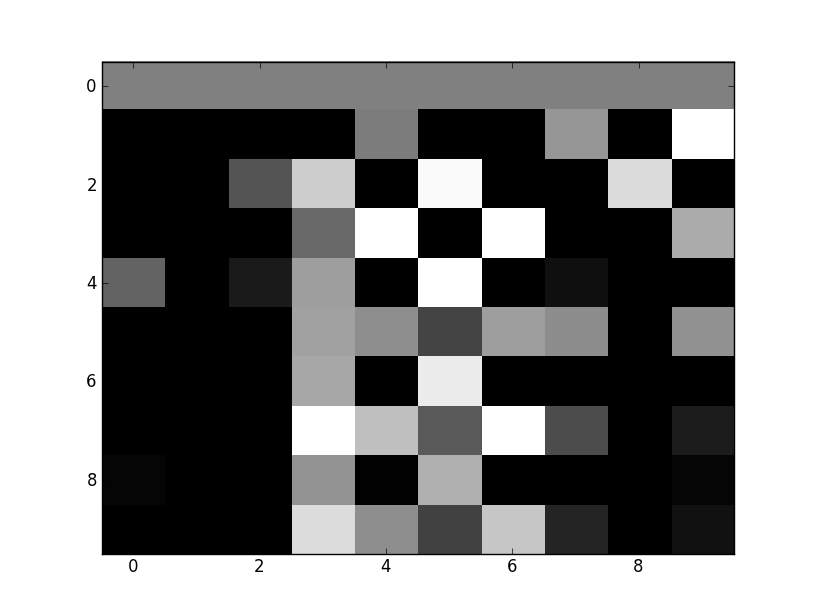
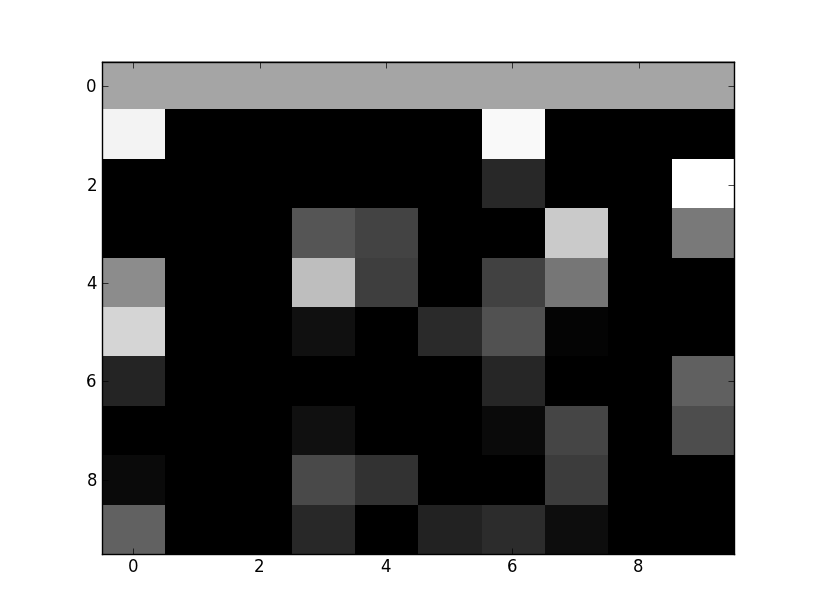
Commiting everything
I've lost track of what's changed...it works and I'm so far happy

diff --git a/Assignment_3/ANNWithSHC.py b/Assignment_3/ANNWithSHC.py
@@ -4,43 +4,13 @@ import matplotlib.pyplot as plt
 import random
 from copy import deepcopy
 
-
+################# ASSIGNMENT 3 #########################
 def MatrixCreate(Rows,Columns):
     #Inputs: int,int
     #Output: Array of zeroes
     
     matrix_list = numpy.zeros(shape=(Rows,Columns))
     return matrix_list
-
-def MatrixRandomize(Array_Name):
-    #Input: Array
-    #Output: New Array
-    random.seed()
-    array_rows = len(Array_Name)
-    #len() gives the number of rows
-    array_columns = (size(Array_Name))/array_rows
-    #element_size determines the number of columns in each row
-    for row in range(array_rows):
-        #looping through Rows
-        for column in range(array_columns):
-            #looping through each column(element) in the row
-            Array_Name[row,column] = random.random()
-    return Array_Name
-
-def Fitness(Array_Name):
-    #Input: Array
-    #Output: N-by-1 Dimensional Array
-    array_row = len(Array_Name)
-    #len() gives the number of rows
-    array_column = (size(Array_Name))/array_row
-    #element_size determines the number of columns in each row
-    vector_means = MatrixCreate(array_row,1)
-    #vector_means will hold the means of each row
-    for row in range(array_row):
-        current_sum = sum(Array_Name[row,:])
-        vector_mean = current_sum/array_column
-        vector_means[row,0] = vector_mean            
-    return vector_means
 
 def MatrixPerturb(Array_Name,Probability):
     #Input: Array, Float
@@ -58,233 +28,14 @@ def MatrixPerturb(Array_Name,Probability):
     for row in range(array_rows):
         for column in range(array_columns):
             if(xx<Probability):
-                prob_vector[row,column] = random.random()
+                prob_vector[row,column] = random.uniform(-1,1)
                 #Assuuming that the array from the fitness function is passed in,
                 #each row of the array will only have one element thus the indexing at 0
-            xx = random.random()
+            xx = random.uniform(-1,1)
         #print "RANDOM",row,xx
     return prob_vector
 
-def SerialHillClimber(Rows,Columns,Generations):
-    Parent_Array = MatrixCreate(Rows,Columns)
-    #:::
-    Parent_Array = MatrixRandomize(Parent_Array)
-    #:::
-    Parent_Fitness = Fitness(Parent_Array)
-    Fits = MatrixCreate(Generations,1)
-    #:::
-    for cur_gen in range(Generations):
-        #print "PARENT FITNESS", Parent_Fitness[0][0]
-        #print cur_gen, Parent_Fitness[0][0]
-        Child_Array = MatrixPerturb(Parent_Array,0.05)
-        Child_Fitness = Fitness(Child_Array)
-        #print "CHILD FITNESS",Child_Fitness[0][0]
-        for row in range(Rows):
-            for column in range(Columns):
-                if(Child_Fitness > Parent_Fitness):
-                    Parent_Array = Child_Array
-                    Parent_Fitness = Child_Fitness
-                    
-        Fits[cur_gen] = Parent_Fitness
-        
-    return Fits
-    
-def PlotVectorAsLine(Array_Name):
-    plotted_results = plt.plot(Array_Name)
-    return plotted_results
-
-def PlotHC(Rows,Columns,Generations,Lineages):
-    for yy in range(0,Lineages):
-        graph_me = SerialHillClimber(Rows,Columns,Generations)
-        ii = PlotVectorAsLine(graph_me)   
-    plt.show(ii)
-
-def Genes(Rows,Columns,Generations):
-    genes = MatrixCreate(Columns,Generations)
-    #:::
-    Parent_Array = MatrixCreate(Rows,Columns)
-    #:::
-    Parent_Array = MatrixRandomize(Parent_Array)
-    #:::
-    Parent_Fitness = Fitness(Parent_Array)
-    #:::
-    for cur_gen in range(Generations):
-        Child_Array = MatrixPerturb(Parent_Array,0.05)
-        Child_Fitness = Fitness(Child_Array)
-        for row in range(Rows):
-            for column in range(Columns):
-                if(Child_Fitness > Parent_Fitness):
-                    Parent_Array = Child_Array
-                    Parent_Fitness = Child_Fitness          
-                genes[column][cur_gen] = Parent_Array[row][column]
-                
-    jj = plt.imshow(genes, cmap=plt.get_cmap('gray'), aspect= 'auto',interpolation= 'nearest')
-    plt.show(jj)
-################# ASSIGNMENT 2 #########################
-def CreateNeurons(Rows,Columns):
-    #Inputs: int,int
-    #Output: Rows-by-Columns array with random ints in first row
-    neuron_values = MatrixCreate(Rows,Columns)
-
-    random.seed()
-    for column in range(Columns):
-        neuron_values[0,column] = random.random()
-    return neuron_values
-
-def NeuronPositions(num_neurons):
-    #Inputs: int
-    #Output: 2-by-num_neurons Array; describes the x & y positions of neurons
-    neuron_positions = MatrixCreate(2,num_neurons)
-    angle = 0
-    angle_update = (2*pi)/num_neurons
-    for i in range(num_neurons):
-        x = sin(angle)
-        y = cos(angle)
-        angle = angle + angle_update
-        neuron_positions[0,i] = x
-        neuron_positions[1,i] = y
-    return neuron_positions
-
-def PlotNeuronPos(num_neurons):
-    # Plots Neuron Position
-    neural_array = NeuronPositions(num_neurons)
-    jj = plt.plot(neural_array[0],neural_array[1],'ko',markerfacecolor=[1,1,1],markersize=18)
-    #plt.show(jj)
-    return jj
-
-def CreateSynapses(Row, Columns):
-    #Inputs: int,int
-    #Output: Rows-by-Columns array with random ints from -1 to 1 for each element
-    syn = MatrixCreate(Row,Columns)
-    for i in range(Row):
-        for j in range(Columns):
-            syn[i,j] = random.uniform(-1,1)
-        
-    return syn
-
-def PlotNeuron_2(num_neurons):
-    #Inputs: int
-    #Outputs: Plots of neurons each connected: no weight to synapses
-
-    neuron_positions = NeuronPositions(num_neurons)
-    plt.plot(neuron_positions[0],neuron_positions[1],'ko',markerfacecolor=[1,1,1],markersize=18)
-    #Plots just the markers
-
-    columns = size(neuron_positions[0])
-    #determines the number of columns in each row
-    end = columns - 1
-    for i in range(columns):
-        for j in range(end):
-            x1 = neuron_positions[0][i]
-            x2 = neuron_positions[0][j+1]
-            
-            y1 = neuron_positions[1][i]
-            y2 = neuron_positions[1][j+1]
-            
-            result = plt.plot([x1,x2],[y1,y2])
-            
-    #plt.show(result)
-    return result
-
-def PlotNeuron_2_Synapse(num_neurons):
-    #Inputs: int
-    #Outputs: Plots of neurons each connected: no weight to synapses
-
-    neuron_positions = NeuronPositions(num_neurons)
-    plt.plot(neuron_positions[0],neuron_positions[1],'ko',markerfacecolor=[1,1,1],markersize=18)
-    #Plots just the markers
-    
-    #rows = len(neuron_positions)
-    #determines the number of rows
-    columns = size(neuron_positions[0])
-    #determines the number of columns in each row
-    end = columns - 1
-
-    synapse = CreateSynapses(columns,columns)
-    
-    for i in range(columns):
-        for j in range(end):
-            x1 = neuron_positions[0][i]
-            x2 = neuron_positions[0][j+1]
-                
-            y1 = neuron_positions[1][i]
-            y2 = neuron_positions[1][j+1]
-            if(synapse[i][j] < 0):
-                result = plt.plot([x1,x2],[y1,y2],color=[.8,.8,.8])
-                #result = plt.plot([x1,x2],[y1,y2],color=[.8,.8,.8],linewidth=(10*abs(synapse[i][j]))+1)
-            else:
-                result = plt.plot([x1,x2],[y1,y2],color=[0,0,0])
-                #result = plt.plot([x1,x2],[y1,y2],color=[0,0,0],linewidth=(10*abs(synapse[i][j]))+1)
-
-    plt.show(result)
-
-def PlotNeuronWeight(num_neurons):
-    #Inputs: int
-    #Outputs: Plots of neurons each connected: no weight to synapses
-
-    neuron_positions = NeuronPositions(num_neurons)
-    plt.plot(neuron_positions[0],neuron_positions[1],'ko',markerfacecolor=[1,1,1],markersize=18)
-    #Plots just the markers
-    
-    columns = size(neuron_positions[0])
-    #determines the number of columns in each row
-    end = columns - 1
-
-    synapse = CreateSynapses(columns,columns)
-    
-    for i in range(columns):
-        for j in range(end):
-            x1 = neuron_positions[0][i]
-            x2 = neuron_positions[0][j+1]
-                
-            y1 = neuron_positions[1][i]
-            y2 = neuron_positions[1][j+1]
-            if(synapse[i][j] < 0):
-                w = int(10*abs(synapse[i][j]))+1
-                result = plt.plot([x1,x2],[y1,y2],color=[.8,.8,.8],linewidth=w)
-            else:
-                w = int(10*abs(synapse[i][j]))+1
-                result = plt.plot([x1,x2],[y1,y2],color=[0,0,0],linewidth=w)
-
-    plt.show(result)
-    
-def Update(neuronValues,synapses,i):
-    for j in range(0,10):
-        temp = 0
-        for k in range(0,10):
-            temp += synapses[j][k]*neuronValues[i-1][k]
-
-        if temp > 1:
-            temp = 1
-        elif temp < 0:
-            temp = 0
-        neuronValues[i][j] = temp
-    return neuronValues
-
-def PlotUpdate():
-    #Inputs: nothing
-    #Outputs: Plots the strength of each neuron 
-    neuronValues = CreateNeurons(50,10)
-    synapses = CreateSynapses(10,10)
-    for i in range(1,50):
-        neuronValues = Update(neuronValues,synapses,i)
-        
-    jj = plt.imshow(neuronValues, cmap=plt.get_cmap('gray'), aspect= 'auto',interpolation= 'nearest')
-    plt.show(jj)
-
-################# ASSIGNMENT 3 #########################
-def VectorCreate(numNeurons):
-    matrix_list = zeros(numNeurons,dtype=float)
-    return matrix_list
-
-def MeanDistance(v1,v2):
-    dist = 0
-    for i in range(len(v1)):
-        dist += sum(pow(v1[i]-v2[i],2))
-    dist = sqrt(dist)
-    return dist
-
-def MatrixRandomize2(Array_Name):
+def MatrixRandomize(Array_Name):
     #Input: Array
     #Output: New Array
     random.seed()
@@ -299,7 +50,19 @@ def MatrixRandomize2(Array_Name):
             Array_Name[row,column] = random.uniform(-1,1)
     return Array_Name
 
-def PlotUpdate2(parent):
+def VectorCreate(numNeurons):
+    matrix_list = zeros(numNeurons,dtype=float)
+    return matrix_list
+
+def MeanDistance(v1,v2):
+    dist = 0
+    for i in range(len(v1)):
+        dist += sum(pow(v1[i]-v2[i],2))
+    dist = sqrt(dist)/sqrt(10)
+    
+    return dist
+
+def PlotUpdate(parent):
     #Inputs: nothing
     #Outputs: Plots the strength of each neuron 
         
@@ -307,31 +70,33 @@ def PlotUpdate2(parent):
     plt.show(jj)
 
 
-def Update2(neuronValues,synapse,i):
+def Update(neuronValues,parent,i):
     for j in range(0,10):
         temp = 0
         for k in range(0,10):
-            temp += synapse[j][k]*neuronValues[i-1][k]
+            temp += parent[j][k]*neuronValues[i-1][k]
 
         if temp > 1:
             temp = 1
         elif temp < 0:
             temp = 0
         neuronValues[i][j] = temp
+
     return neuronValues
 
 
-def Fitness2(synapse):
+def Fitness(parent):
     neuronValues = numpy.zeros(shape=(10,10))
     for n in range(10):
         neuronValues[0][n] = 0.5
 
     for i in range(1,10):
-        neuronValues = Update2(neuronValues,synapse,i)
+        neuronValues = Update(neuronValues,parent,i)
 
-    #PlotUpdate2(neuronValues)
+    #print neuronValues
+    #PlotUpdate(neuronValues)
 
-    actualNeuronValues = synapse[9,:]
+    actualNeuronValues = neuronValues[9,:]
     
     desiredNeuronValues = VectorCreate(10)
     for j in range(0,10,2):
@@ -340,29 +105,29 @@ def Fitness2(synapse):
     d = MeanDistance(actualNeuronValues,desiredNeuronValues)
     fit = 1 - d
    
-    return fit
+    return fit,neuronValues
     
 def Main(Rows,Columns):
-    parent_synapse = MatrixCreate(Rows,Columns)
+    parent = MatrixCreate(Rows,Columns)
     #:::
-    parent_synapse = MatrixRandomize2(parent_synapse)
+    parent = MatrixRandomize(parent)
     #:::
-    parent_synapse_fitness = Fitness2(parent_synapse)
     
+    parent_fitness,neuronValues = Fitness(parent)
+   
+    Fits = MatrixCreate(1,5000)
     #:::
-    Fits = MatrixCreate(5000,1)
-
     for cur_gen in range(5000):
-        child_synapse = MatrixPerturb(parent_synapse,0.05)
-        child_synapse_fitness = Fitness2(child_synapse)
-        print cur_gen, child_synapse_fitness
-        for row in range(10):
-            for column in range(10):
-                if(child_synapse_fitness > parent_synapse_fitness):
-                    parent_synapse = child_synapse
-                    parent_synapse_fitness = child_synapse_fitness
-                   
-        Fits[cur_gen] = parent_synapse_fitness
-        
-    return Fits
+        #print cur_gen, parent_fitness
+        child = MatrixPerturb(parent,0.05)
+        child_fitness,neuronValues = Fitness(child)
+        for row in range(Rows):
+            for column in range(Columns):
+                if(child_fitness > parent_fitness):
+                    parent = child
+                    parent_fitness = child_fitness
+                    
+        Fits[0][cur_gen] = parent_fitness
+    PlotUpdate(neuronValues)
+    #return Fits
 
